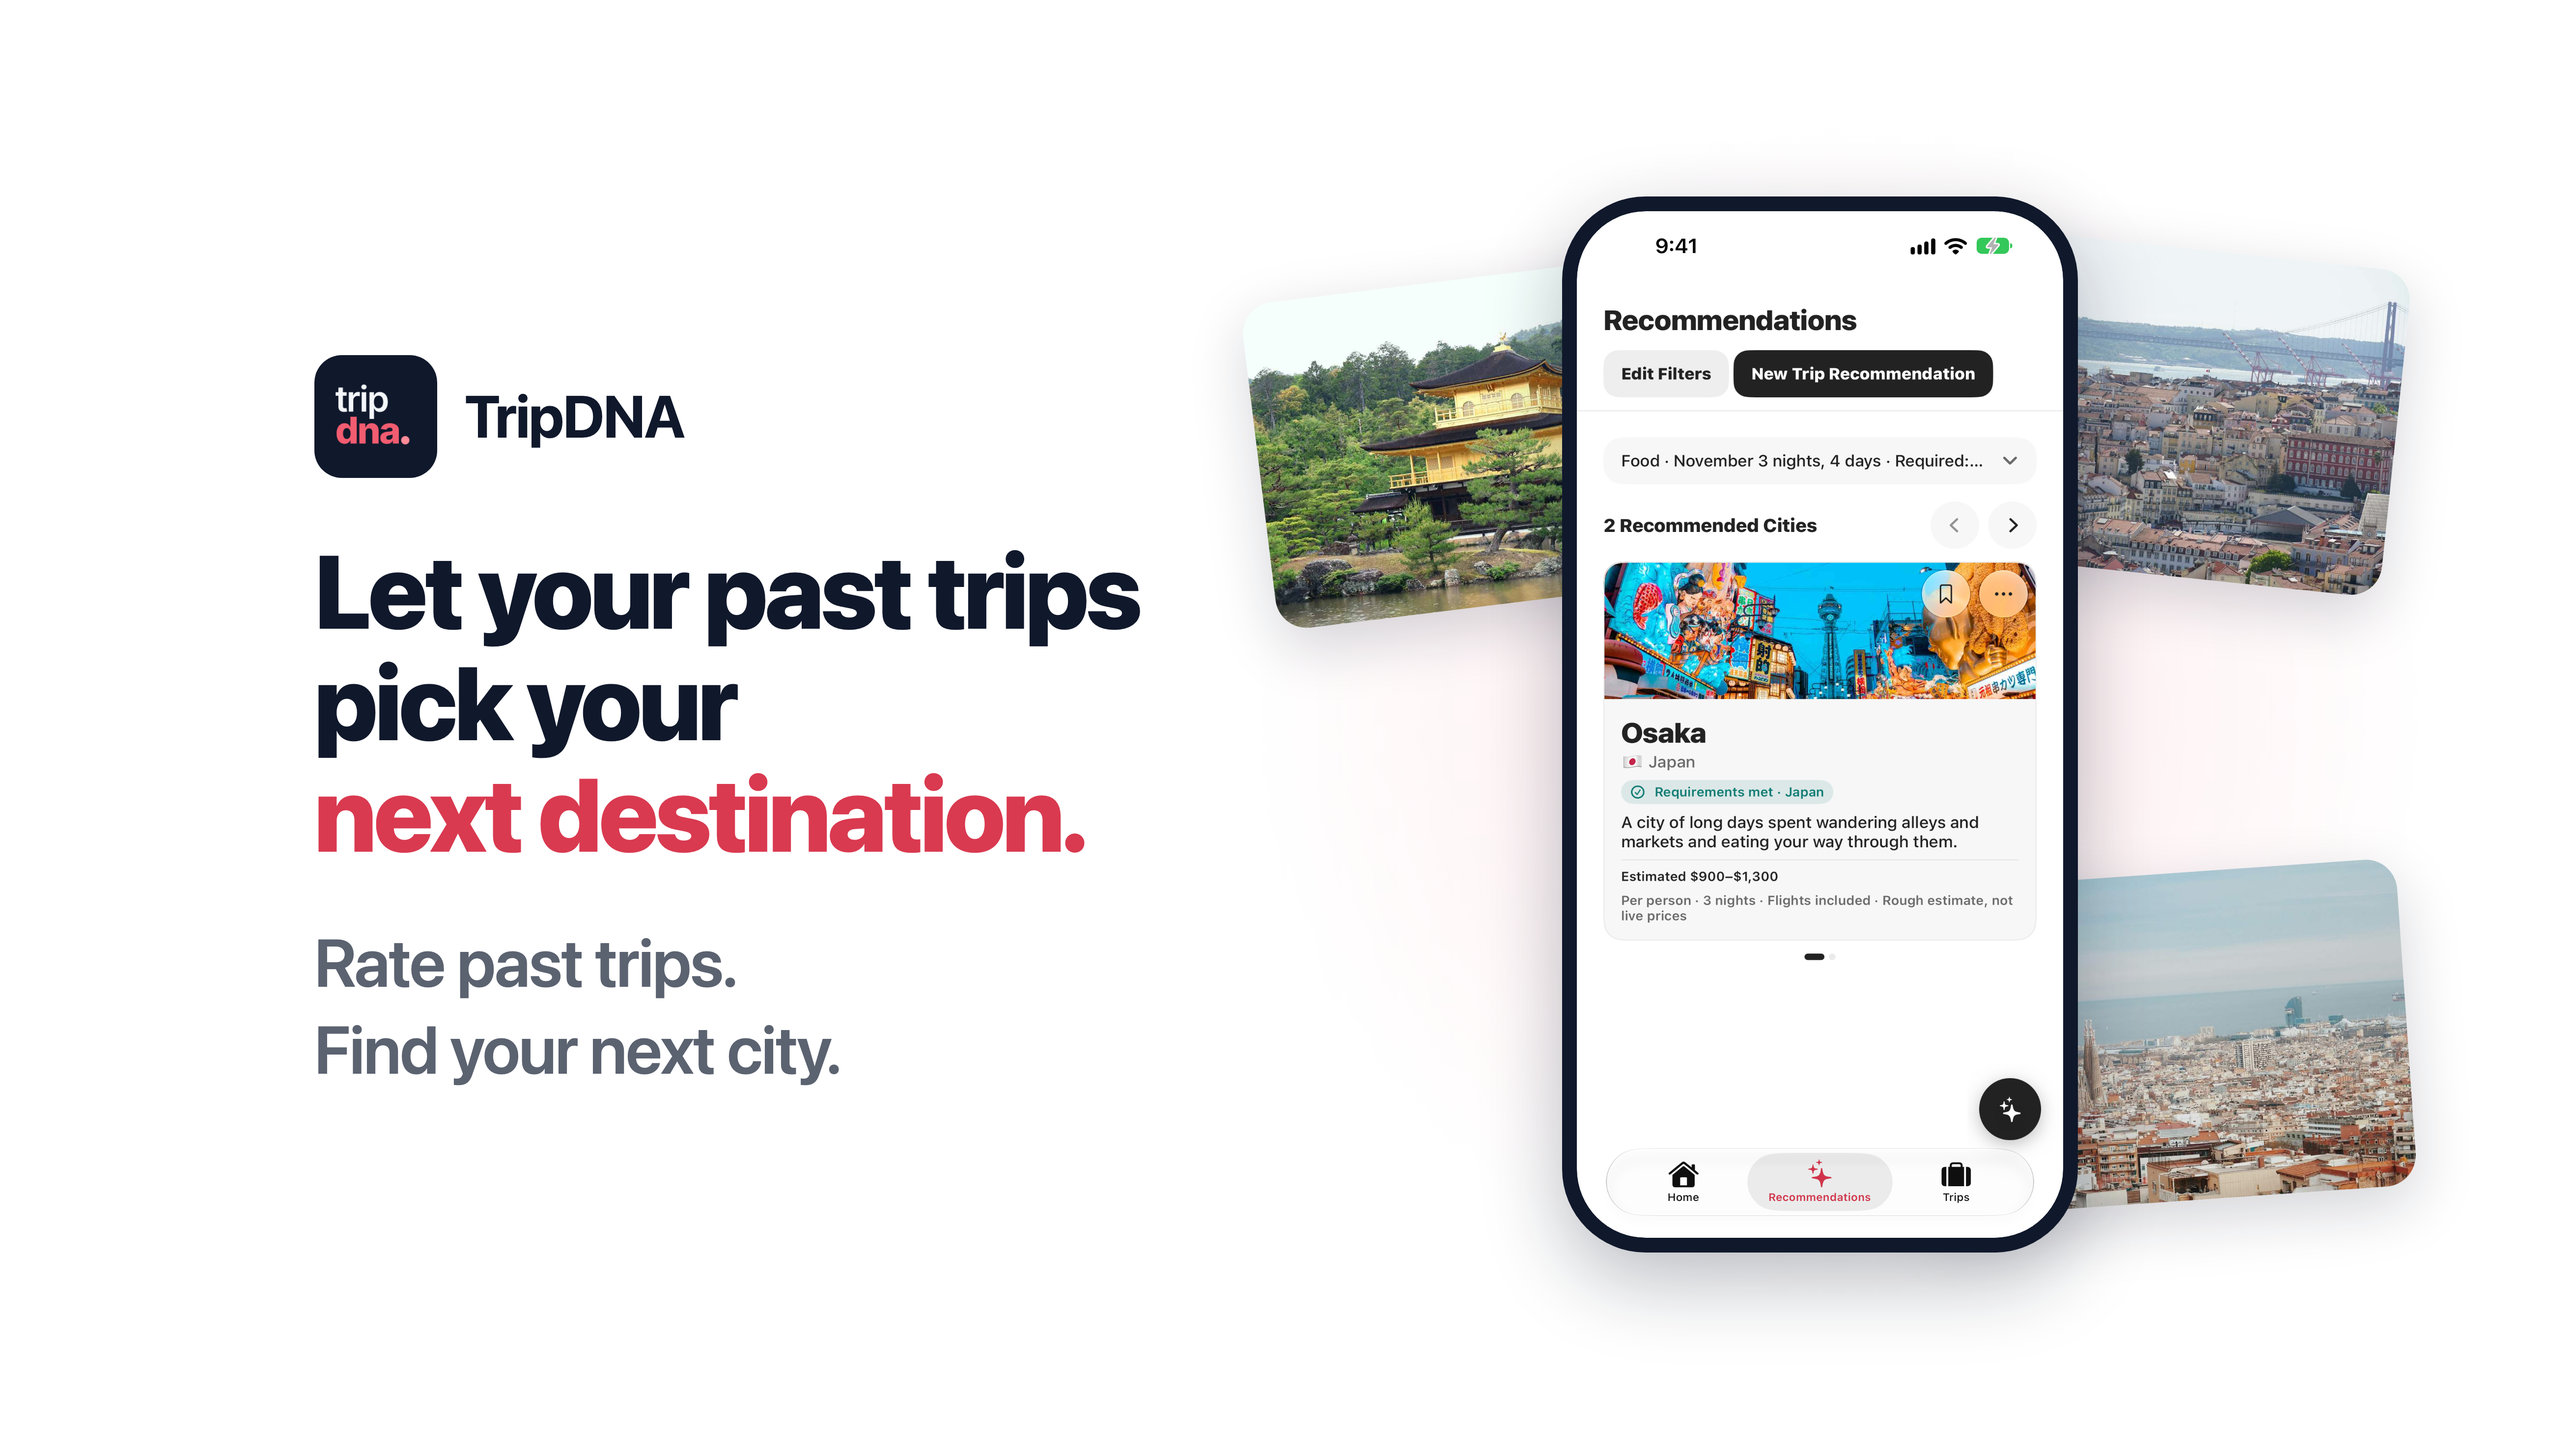
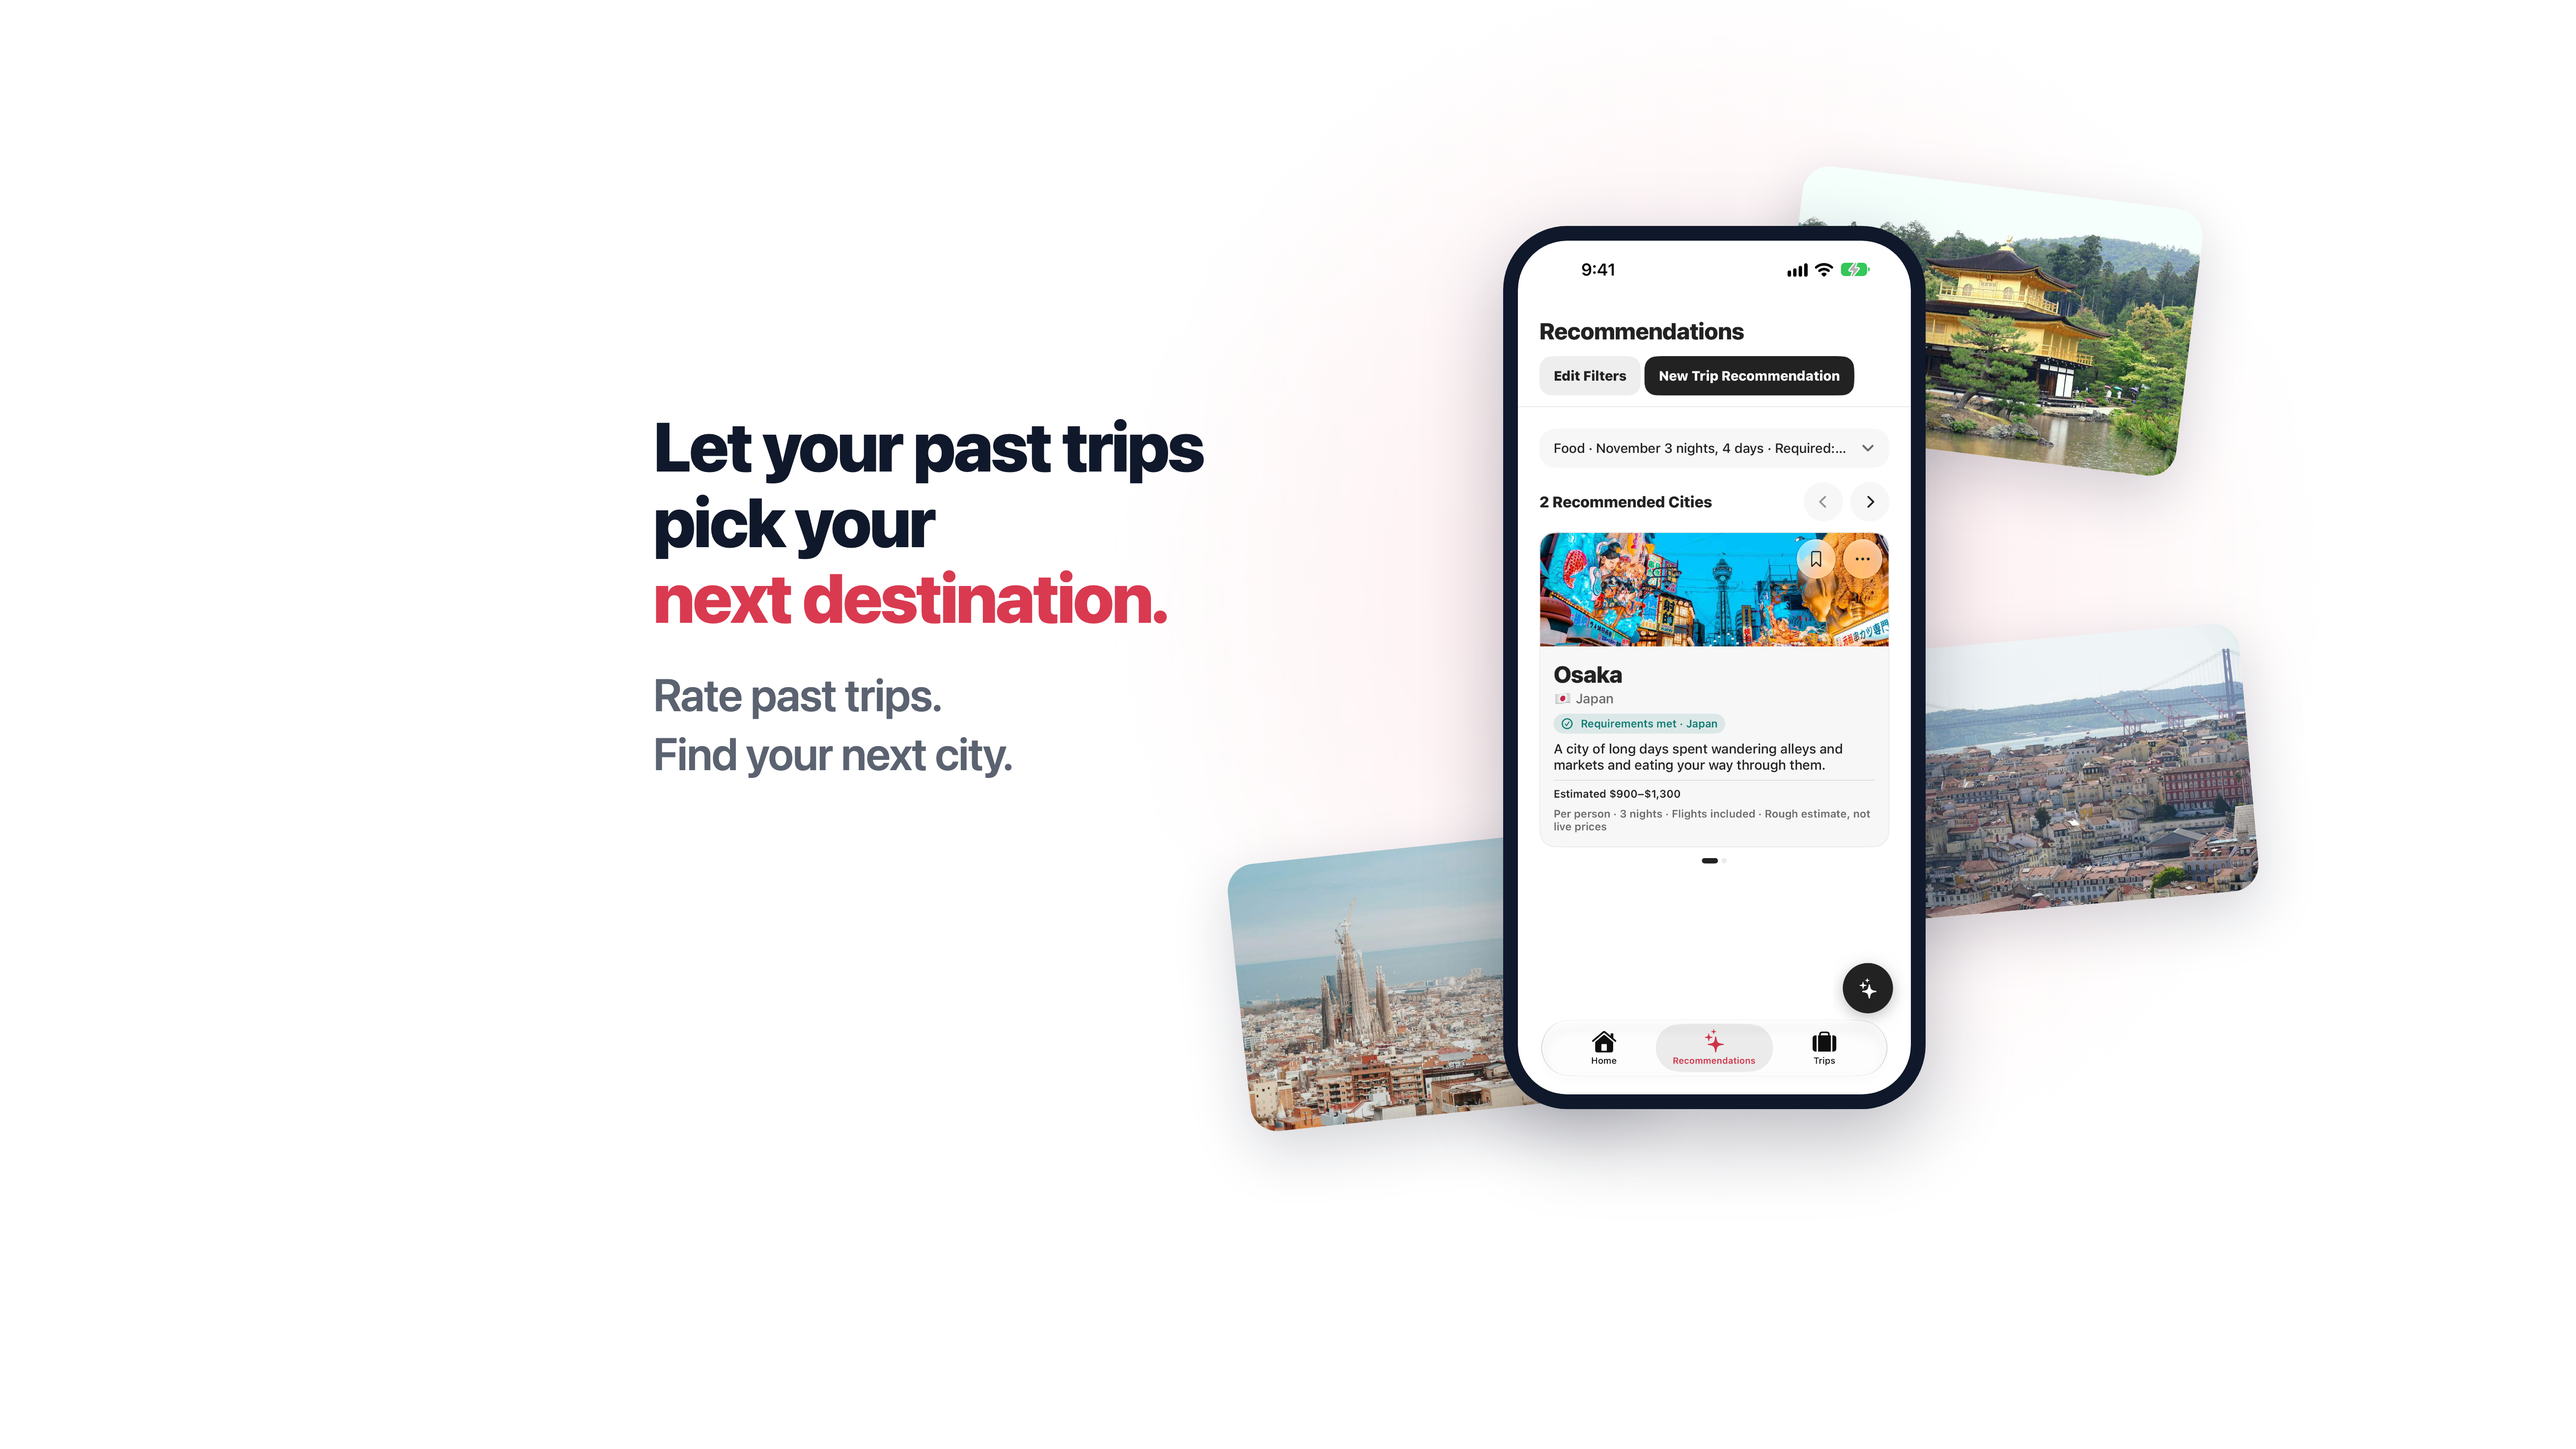
design: App Store 공용 크리에이티브를 미리보기 기준 가운데 배치로 수정
App Store Connect 미리보기에서 iPhone은 가로 가운데, iPad는 세로 가운데만
보여 문구와 휴대폰이 잘렸다. 잰 범위(가운데 띠 x 1230~4020, y 650~1780)에
문구와 추천 카드를 모으고 아이콘·이름 줄을 뺐다. 수정본은 미리보기로 확인했다.

diff --git a/design/app-store/creative/make.py b/design/app-store/creative/make.py
@@ -2,6 +2,10 @@
 # 실행: python3 make.py 후 각 HTML을 Chrome headless로 렌더링(docs/app-store-submission.md 참고).
 # reco-*.png는 -uiDemo recoResult로 띄워 조건 요약을 접은 iPhone 18 Pro Max 시뮬레이터 캡처다.
 import sys,os
+# 배치 기준(2026-11-07 App Store Connect 미리보기에서 잰 값, 5244x2950 기준):
+# iPhone은 x 1230~4020, y 50~1890만 보이고 위 약 300px은 상태 표시줄·버튼에 가린다.
+# iPad는 x 250~4980, y 360~1780만 보이고 위 가운데(x 2140~3076, y ~625까지)는 탭 메뉴에 가린다.
+# 그래서 문구와 추천 카드는 가운데 띠(x 1230~4020, y 650~1780) 안에 둔다.
 d=os.path.dirname(os.path.abspath(__file__))
 
 COVER={'en':[(0,2110,1320,500)],'ko':[(0,1930,1320,470)]}
@@ -16,30 +20,27 @@ T={'en':('Let your past trips<br>pick your<br><em>next destination.</em>','Rate 
    'ko':('지난 여행이<br><em>다음 여행지</em>를 골라요','다녀온 여행을 평가하고<br>다음 도시를 찾아요.')}
 for lang,(h,s) in T.items():
   for guide in (0,1):
-    g='''<div class="g" style="left:410px;top:351px;width:4424px;height:2248px;border-color:#00f"></div>
-<div class="g" style="left:0;top:351px;width:5244px;height:2248px;border-color:#f0f"></div>
-<div class="g" style="left:410px;top:0;width:4424px;height:2950px;border-color:#0a0"></div>''' if guide else ''
+    g='''<div class="g" style="left:1230px;top:50px;width:2790px;height:1840px;border-color:#0a0"></div>
+<div class="g" style="left:250px;top:360px;width:4730px;height:1420px;border-color:#f0f"></div>
+<div class="g" style="left:2140px;top:360px;width:936px;height:265px;border-color:#f80;background:rgba(255,136,0,.15)"></div>''' if guide else ''
     html=f'''<!doctype html><html lang="{lang}"><meta charset="utf-8"><style>
 *{{margin:0;box-sizing:border-box}}
 body{{width:5244px;height:2950px;overflow:hidden;background:#fff;position:relative;font-family:-apple-system,"SF Pro Display","Apple SD Gothic Neo",sans-serif;color:#10182B}}
-.blob{{position:absolute;left:2500px;top:200px;width:2500px;height:2500px;border-radius:50%;background:radial-gradient(circle,#FDE8EB 0%,#fff 68%)}}
-.left{{position:absolute;left:640px;top:0;height:2950px;width:2200px;display:flex;flex-direction:column;justify-content:center}}
-.brand{{display:flex;align-items:center;gap:56px;margin-bottom:120px}}
-.brand img{{width:250px;height:250px;border-radius:56px}}
-.brand span{{font-size:120px;font-weight:700;letter-spacing:-2px}}
-h1{{font-size:{210 if lang=="en" else 220}px;line-height:1.08;font-weight:800;letter-spacing:{-6 if lang=="en" else -4}px}}
+.blob{{position:absolute;left:2200px;top:-100px;width:2600px;height:2600px;border-radius:50%;background:radial-gradient(circle,#FDE8EB 0%,#fff 68%)}}
+.left{{position:absolute;left:1330px;top:650px;height:1130px;width:1500px;display:flex;flex-direction:column;justify-content:center}}
+h1{{font-size:140px;line-height:1.1;font-weight:800;letter-spacing:{-4 if lang=="en" else -3}px}}
 h1 em{{font-style:normal;color:#D93A50}}
-p{{margin-top:100px;font-size:136px;line-height:1.3;color:#5B6270;font-weight:600;letter-spacing:-2px}}
-.card{{position:absolute;width:1000px;height:667px;border-radius:64px;background-size:cover;background-position:center;box-shadow:0 40px 120px rgba(16,24,43,.18)}}
-.phone{{position:absolute;left:3180px;top:400px;height:2150px;width:{round(2150*1320/2868)+60}px;padding:30px;background:#10182B;border-radius:170px;box-shadow:0 60px 160px rgba(16,24,43,.28)}}
-.phone img{{width:100%;height:100%;border-radius:140px;display:block}}
+p{{margin-top:60px;font-size:92px;line-height:1.3;color:#5B6270;font-weight:600;letter-spacing:-1px}}
+.card{{position:absolute;width:820px;height:547px;border-radius:56px;background-size:cover;background-position:center;box-shadow:0 40px 120px rgba(16,24,43,.18)}}
+.phone{{position:absolute;left:3060px;top:460px;width:860px;height:{round(800*2868/1320)+60}px;padding:30px;background:#10182B;border-radius:130px;box-shadow:0 60px 160px rgba(16,24,43,.28)}}
+.phone img{{width:100%;height:100%;border-radius:100px;display:block}}
 .g{{position:absolute;border:8px dashed}}
 </style><body>
 <div class="blob"></div>
-<div class="card" style="left:2560px;top:560px;transform:rotate(-7deg);background-image:url(../../../TripDNA/Resources/CityPhotos/jp-kyoto.jpg)"></div>
-<div class="card" style="left:3880px;top:500px;transform:rotate(6deg);background-image:url(../../../TripDNA/Resources/CityPhotos/pt-lisbon.jpg)"></div>
-<div class="card" style="left:3900px;top:1780px;transform:rotate(-4deg);background-image:url(../../../TripDNA/Resources/CityPhotos/es-barcelona.jpg)"></div>
-<div class="phone"><div style="position:relative;height:100%;border-radius:140px;overflow:hidden"><img src="reco-{lang}.png">{covers(lang)}</div></div>
-<div class="left"><div class="brand"><img src="../../../TripDNA/Assets.xcassets/AppIcon.appiconset/AppIcon.png"><span>TripDNA</span></div><h1>{h}</h1><p>{s}</p></div>
+<div class="card" style="left:3640px;top:380px;transform:rotate(7deg);background-image:url(../../../TripDNA/Resources/CityPhotos/jp-kyoto.jpg)"></div>
+<div class="card" style="left:3760px;top:1300px;transform:rotate(-5deg);background-image:url(../../../TripDNA/Resources/CityPhotos/pt-lisbon.jpg)"></div>
+<div class="card" style="left:2520px;top:1720px;transform:rotate(-6deg);background-image:url(../../../TripDNA/Resources/CityPhotos/es-barcelona.jpg)"></div>
+<div class="phone"><div style="position:relative;height:100%;border-radius:100px;overflow:hidden"><img src="reco-{lang}.png">{covers(lang)}</div></div>
+<div class="left"><h1>{h}</h1><p>{s}</p></div>
 {g}</body></html>'''
     open(f'{d}/{lang}{"-guide" if guide else ""}.html','w').write(html)

diff --git a/docs/app-store-submission.md b/docs/app-store-submission.md
@@ -249,9 +249,13 @@ joe45dev@gmail.com
 ### 시안 (2026-11-07, 사용자 검토 후 저장)
 
 - 최종 시안: [universal-en.png](../design/app-store/creative/universal-en.png), [universal-ko.png](../design/app-store/creative/universal-ko.png). 16:9 PNG 5244×2950, 투명도 없음.
-- 구성: 흰 바탕, 아이콘·문구(영어 "Let your past trips pick your next destination." / 한국어 "지난 여행이 다음 여행지를 골라요"), 추천 결과 화면, 교토·리스본·바르셀로나 사진(앱 번들과 같은 Unsplash 사진, 출처는 `data/destinations/city-photo-sources.csv`).
+- 구성(2026-11-07 미리보기 확인 후 가운데 배치로 수정): 흰 바탕, 문구(영어 "Let your past trips pick your next destination." / 한국어 "지난 여행이 다음 여행지를 골라요"), 추천 결과 화면, 교토·리스본·바르셀로나 사진(앱 번들과 같은 Unsplash 사진, 출처는 `data/destinations/city-photo-sources.csv`).
 - 휴대폰 화면은 `-uiDemo recoResult`로 띄워 조건 요약을 접은 시뮬레이터 캡처다. "추가 확인 필요" 영역은 흰색으로 덮었다. 모든 카드가 조건 확인을 통과하면 이 영역이 나오지 않으므로 앱에 있는 화면이다. **필수 스크린샷은 덮지 않고 실제 화면으로 찍는다.**
 - 데모 데이터는 앱 언어에 맞춰 문장과 통화를 바꾼다(영어는 USD, 원화 금액의 1/1000). `UIDemoSeed.swift`, DEBUG 빌드에만 들어간다.
 - 다시 만들기: `design/app-store/creative/`에서 `python3 make.py` 후 아래 명령으로 렌더링한다(`*-guide.html`은 잘림 범위 점선이 들어간 확인용).
   `"/Applications/Google Chrome.app/Contents/MacOS/Google Chrome" --headless --hide-scrollbars --force-device-scale-factor=1 --window-size=5244,2950 --virtual-time-budget=3000 --screenshot=universal-en.png file://$PWD/en.html`
-- 남은 확인: 잘림 범위는 비율로 계산한 값이다. App Store Connect 미리보기나 Apple 공식 템플릿으로 확인한다.
+- 보이는 범위(2026-11-07 App Store Connect 제품 페이지 미리보기 화면에서 잰 값, 5244×2950 기준):
+  - iPhone 헤더: x 1230~4020, y 50~1890. 위 약 300px은 상태 표시줄과 뒤로·공유 버튼에 가린다.
+  - iPad 헤더: x 250~4980, y 360~1780. 위 가운데(x 2140~3076, y 625까지)는 탭 메뉴에 가린다.
+  - 그래서 문구와 추천 카드는 가운데 띠(x 1230~4020, y 650~1780)에 둔다. 처음 시안은 비율로 계산한 범위에 맞춰 문구가 잘렸다. 아이콘·이름 줄은 App Store가 바로 아래 보여주므로 뺐다.
+- 2026-11-07 수정본을 App Store Connect에 올려 미리보기로 확인했다(사용자 확인, 문제 없음). 위 범위 값은 미리보기 화면에서 잰 근사치다.
